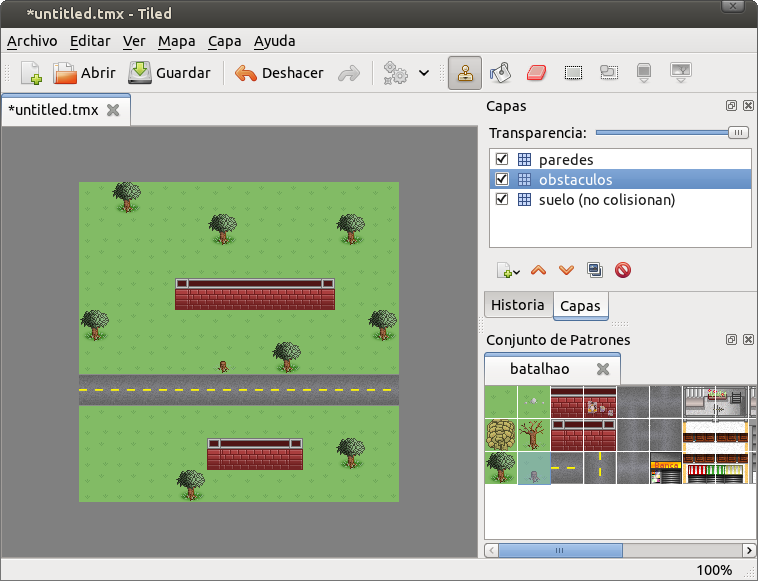
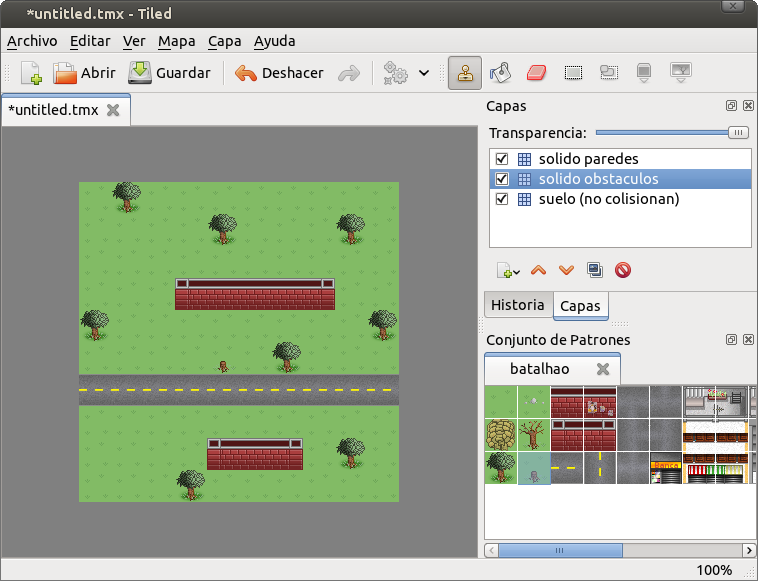
actualización y deploy.

Changed region(s): [[0.6979, 0.2478, 0.9103, 0.3718]]

diff --git a/site/mapas_y_plataformas/index.html b/site/mapas_y_plataformas/index.html
@@ -407,12 +407,13 @@ mapa_desde_archivo = pilas.actores.MapaTiled("archivo.tmx")
 </code></pre>
 <h2 id="creando-bloques-solidos-con-tiled">Creando bloques sólidos con tiled</h2>
 <p>Si quieres hacer bloques sólidos desde <strong>tiled</strong> solamente
-tienes que crear mas capas, la capa 0 se utilizará como
-decorado (todos los bloques son no-sólidos) y el resto de las
-capas serán siempre de bloques sólidos.</p>
+tienes que crear una capa especial. Si una de las capas comienza
+con el nombre "solido" entonces pilas hará que cada uno
+de los bloques sea interpretado como un bloque sólido.</p>
 <p>Por ejemplo, en el escenario anterior, sería interesante colocar
 los bloques de pasto y la ruta en la capa que he llamado "suelo"
-y el resto de los objetos en otras capas como "obstáculos" y "paredes":</p>
+y el resto de los objetos en otras capas que serán sólidas,
+en este caso "solido obstáculos" y "solido paredes":</p>
 <p><img alt="" src="../imagenes/mapas_y_plataformas/tiled6.png" /></p>
 <h2 id="un-ejemplo-completo">Un ejemplo completo</h2>
 <p>Te recomiendo que observes el ejemplo <code>mapa_desde_archivo.py</code> del
@@ -420,6 +421,8 @@ directorio de ejemplos de pilas, podrás observar un escenario
 muy simple con obstáculos y un personaje que se puede mover
 con el teclado:</p>
 <p><img alt="" src="../imagenes/mapas_y_plataformas/tiled8.png" /></p>
+<p>O bien, el ejemplo <code>plataformas</code>:</p>
+<p><img alt="" src="../imagenes/mapas_y_plataformas/plataformas.png" /></p>
 
             </div>
           </div>

diff --git a/docs/mapas_y_plataformas.md b/docs/mapas_y_plataformas.md
@@ -153,13 +153,14 @@ generado con el programa **tiled**:
 ## Creando bloques sólidos con tiled
 
 Si quieres hacer bloques sólidos desde **tiled** solamente
-tienes que crear mas capas, la capa 0 se utilizará como
-decorado (todos los bloques son no-sólidos) y el resto de las
-capas serán siempre de bloques sólidos.
+tienes que crear una capa especial. Si una de las capas comienza
+con el nombre "solido" entonces pilas hará que cada uno
+de los bloques sea interpretado como un bloque sólido.
 
 Por ejemplo, en el escenario anterior, sería interesante colocar
 los bloques de pasto y la ruta en la capa que he llamado "suelo"
-y el resto de los objetos en otras capas como "obstáculos" y "paredes":
+y el resto de los objetos en otras capas que serán sólidas,
+en este caso "solido obstáculos" y "solido paredes":
 
 ![](imagenes/mapas_y_plataformas/tiled6.png)
 
@@ -172,3 +173,7 @@ muy simple con obstáculos y un personaje que se puede mover
 con el teclado:
 
 ![](imagenes/mapas_y_plataformas/tiled8.png)
+
+O bien, el ejemplo ``plataformas``:
+
+![](imagenes/mapas_y_plataformas/plataformas.png)
